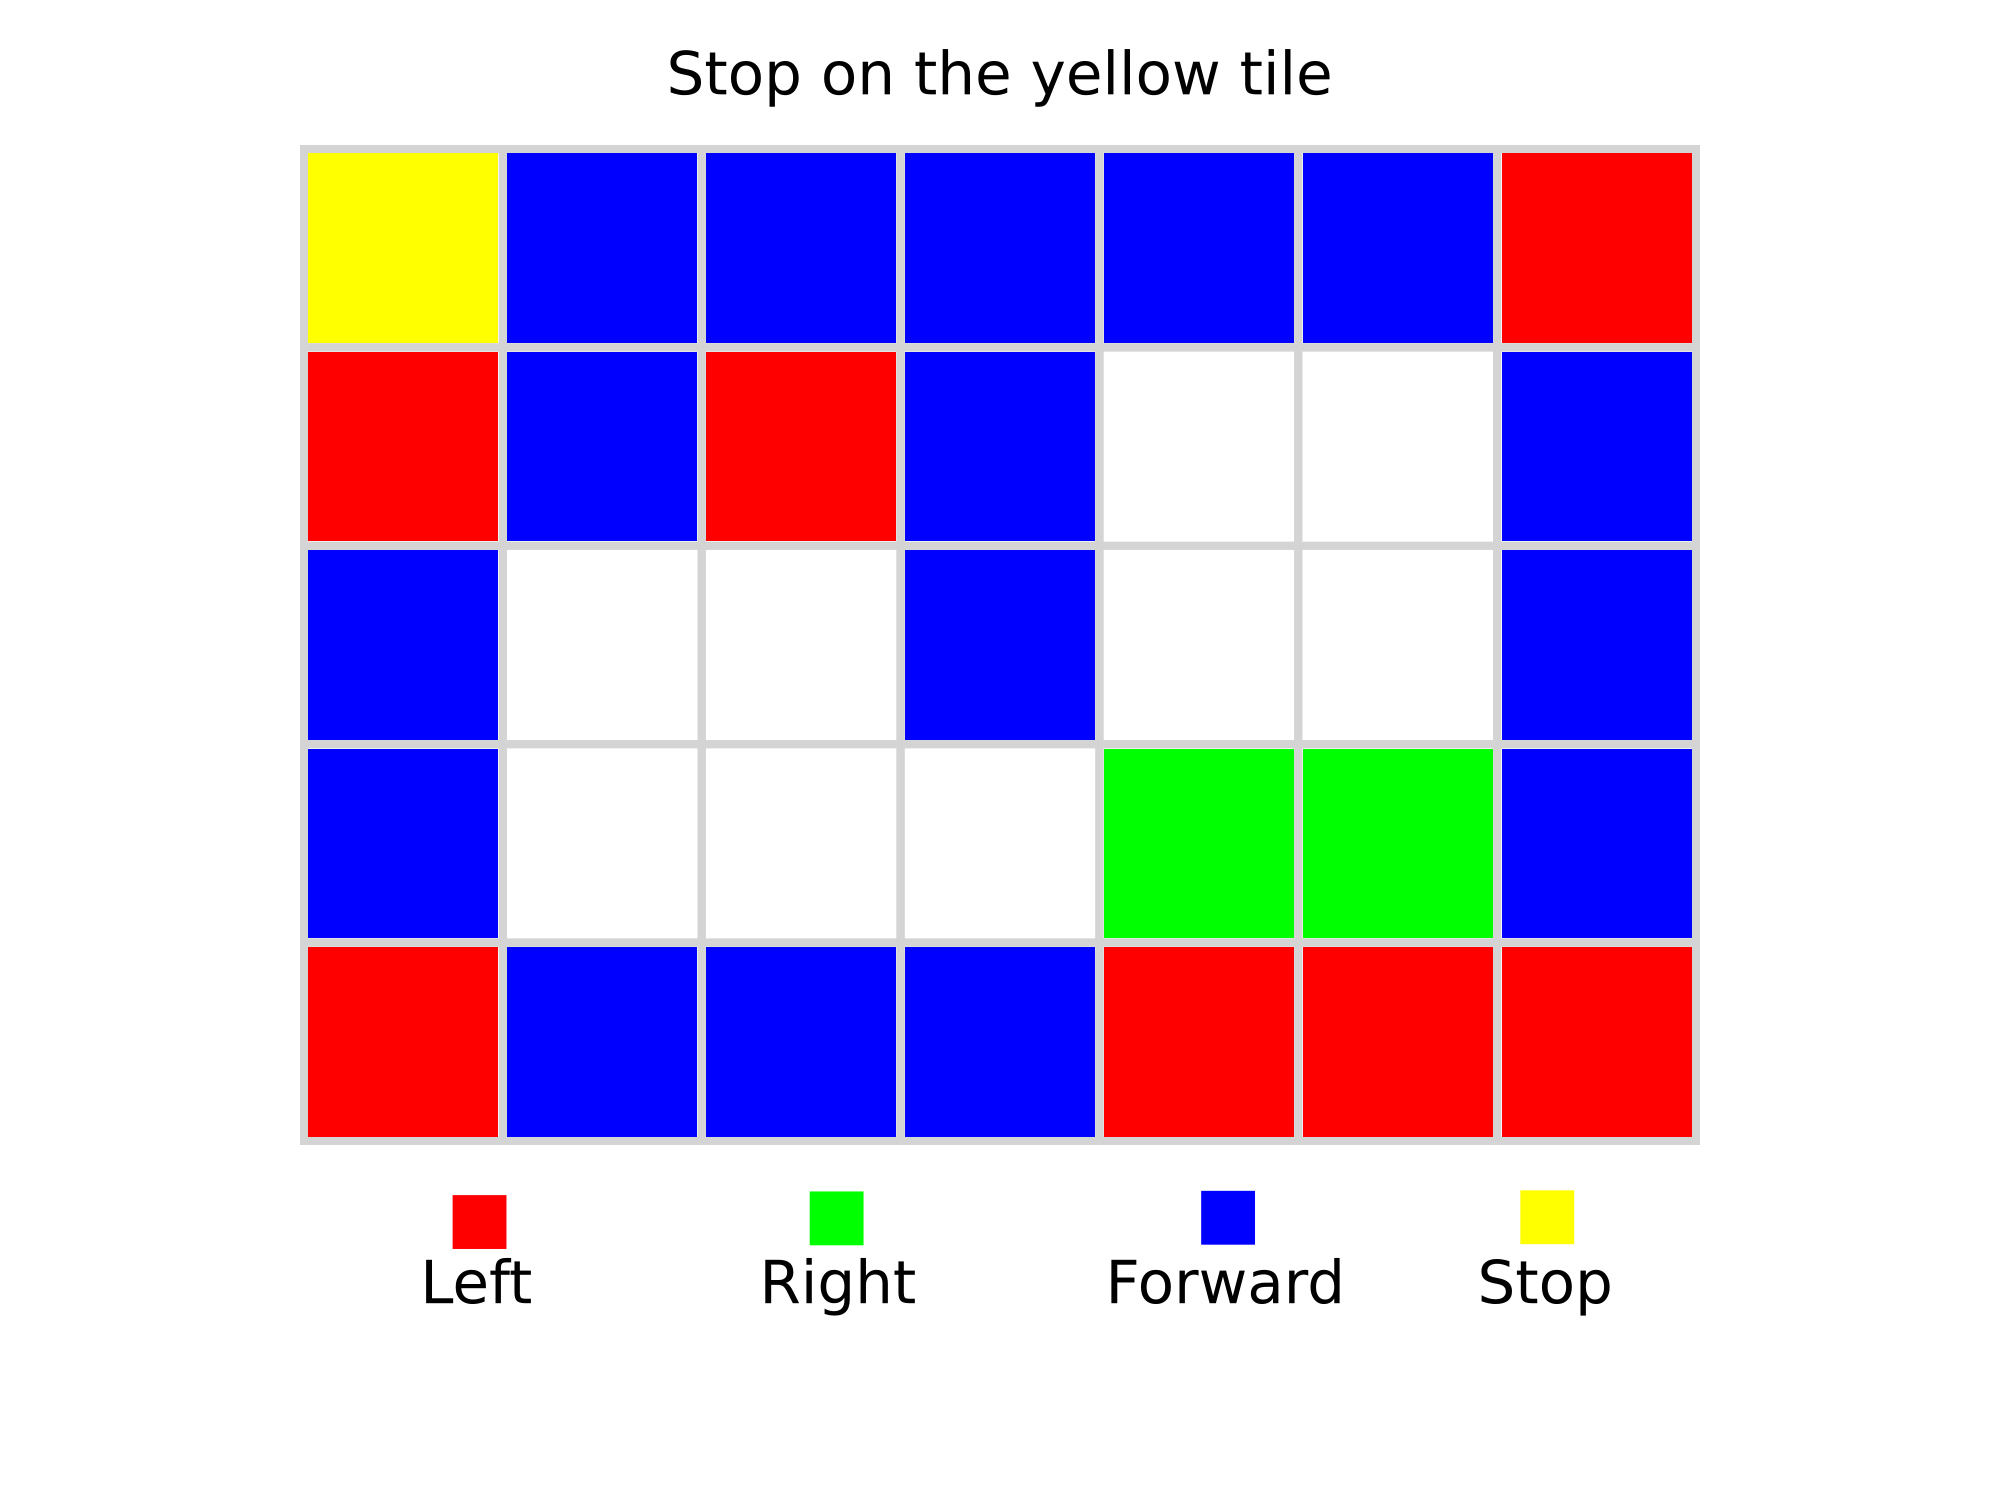
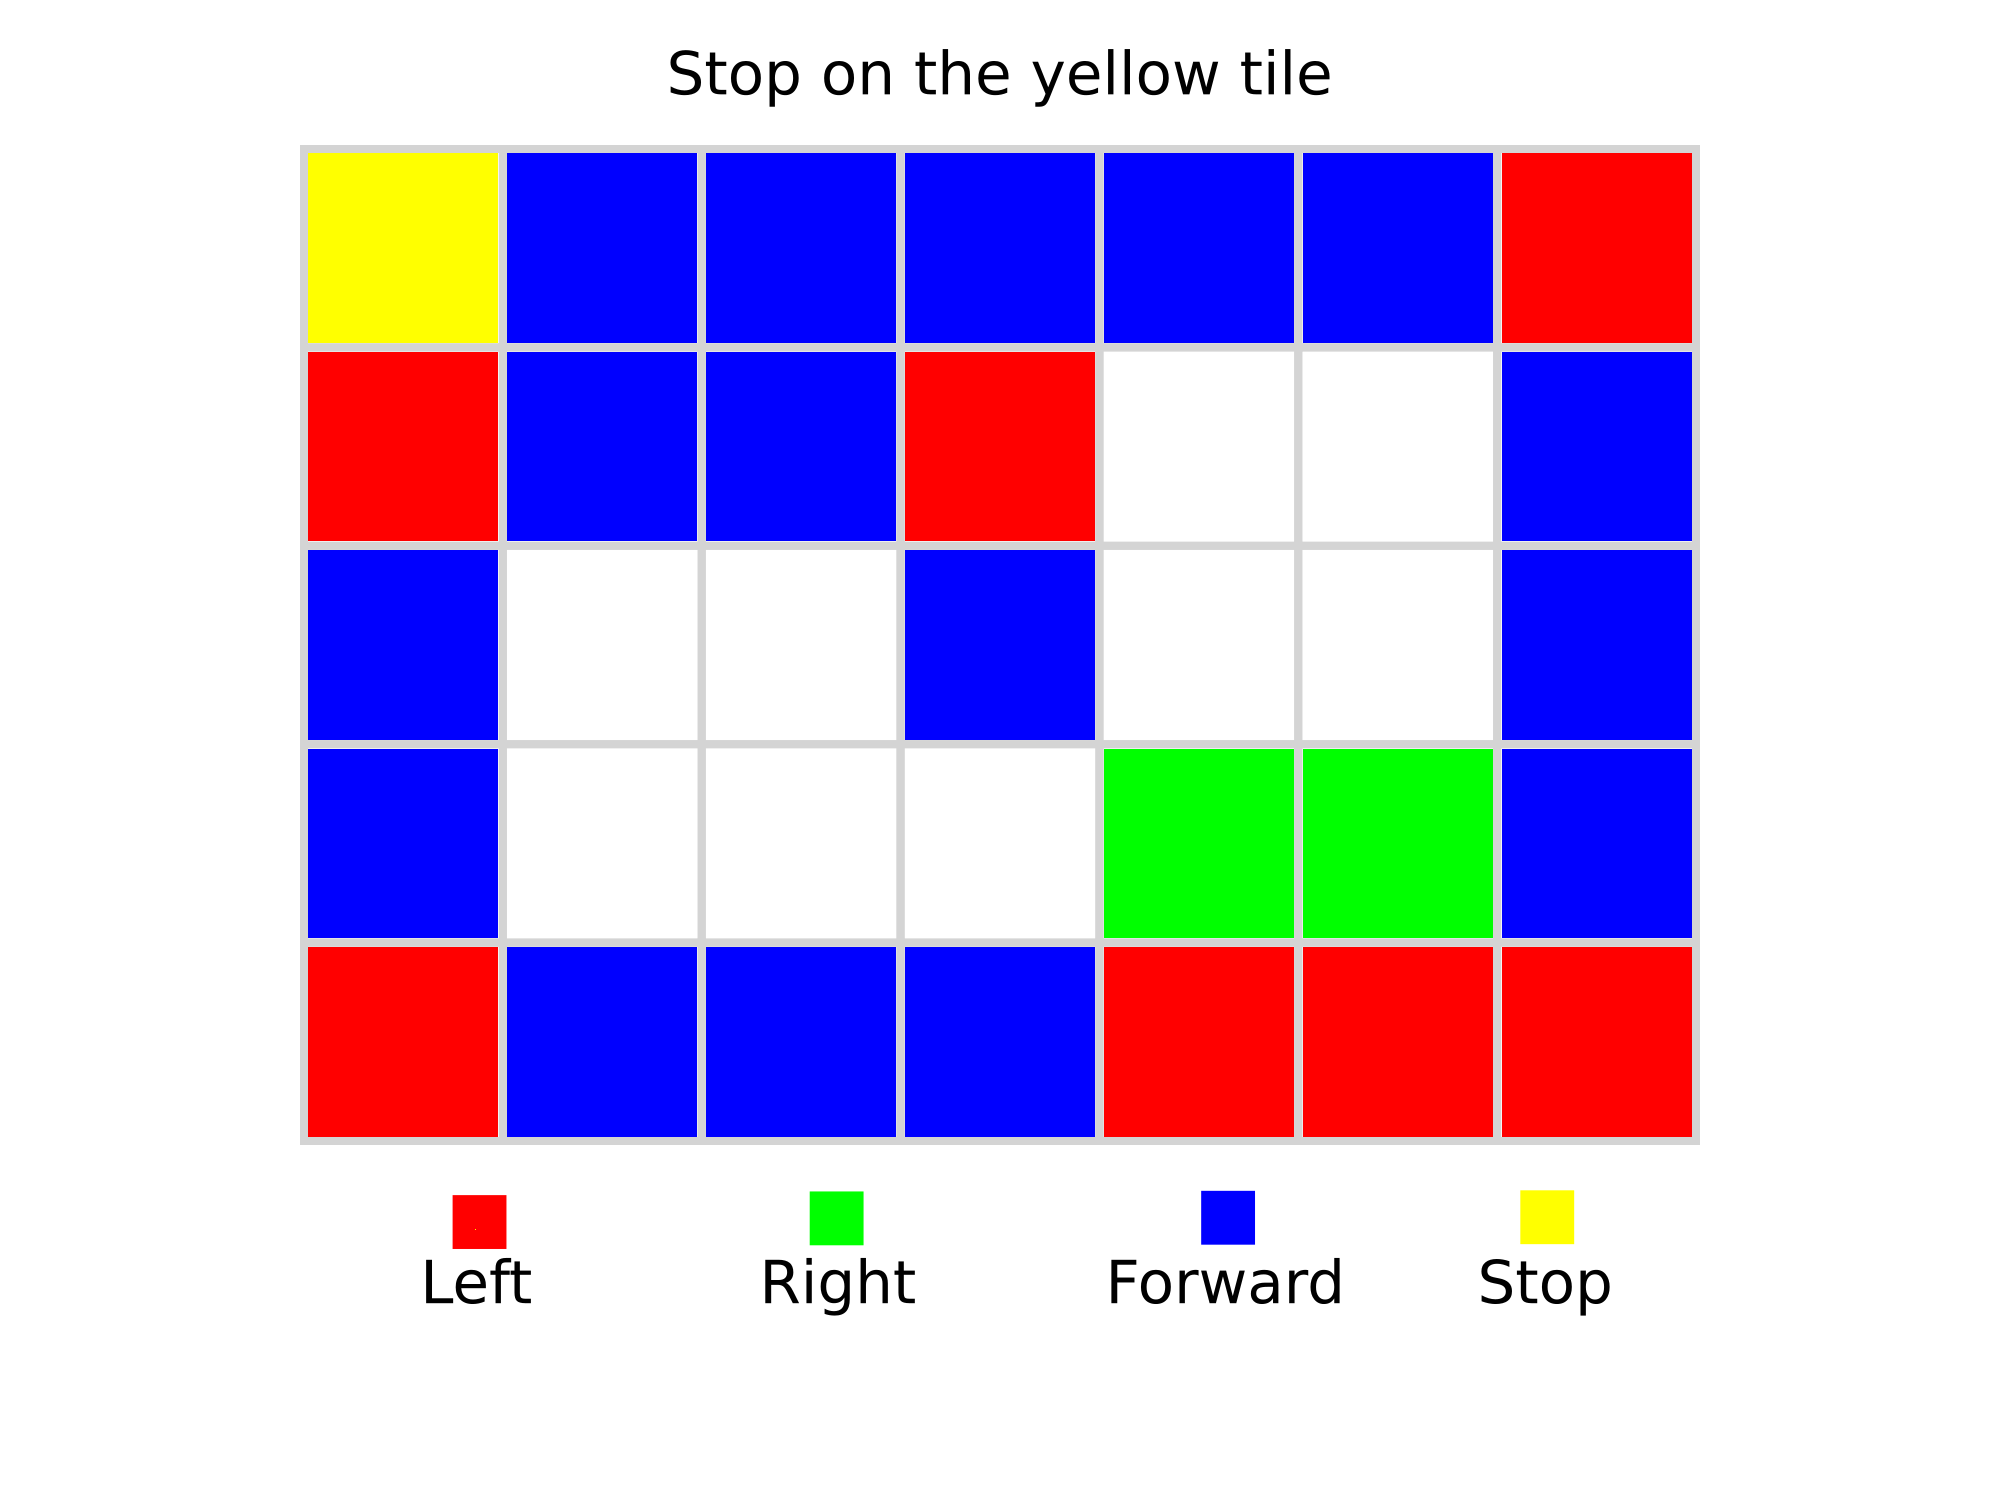
mod

Changed region(s): [[0.341, 0.2147, 0.558, 0.368]]

diff --git a/mundo.js b/mundo.js
@@ -1,0 +1,32 @@
+{
+  "worldName": "custom",
+  "options": {
+    "imageURL": "https://raw.githubusercontent.com/baumanndaniel21/GearsBot/main/follow-to-yellow2.png",
+    "groundType": "box",
+    "length": 100,
+    "width": 100,
+    "uScale": 1,
+    "vScale": 1,
+    "imageScale": 1,
+    "timer": "none",
+    "timerDuration": 60,
+    "timerEnd": "continue",
+    "wall": true,
+    "wallHeight": 7.7,
+    "wallThickness": 4.5,
+    "wallColor": "#1A1A1A",
+    "groundFriction": 1,
+    "wallFriction": 0.1,
+    "groundRestitution": 0,
+    "wallRestitution": 0.1,
+    "restartAnimationOnRun": false,
+    "objects": [],
+    "startPos": "center",
+    "startPosXYZStr": "",
+    "startRotStr": "",
+    "startPosXYZ": null,
+    "startRot": null,
+    "arenaStartPosXYZ": null,
+    "arenaStartRot": null
+  }
+}
